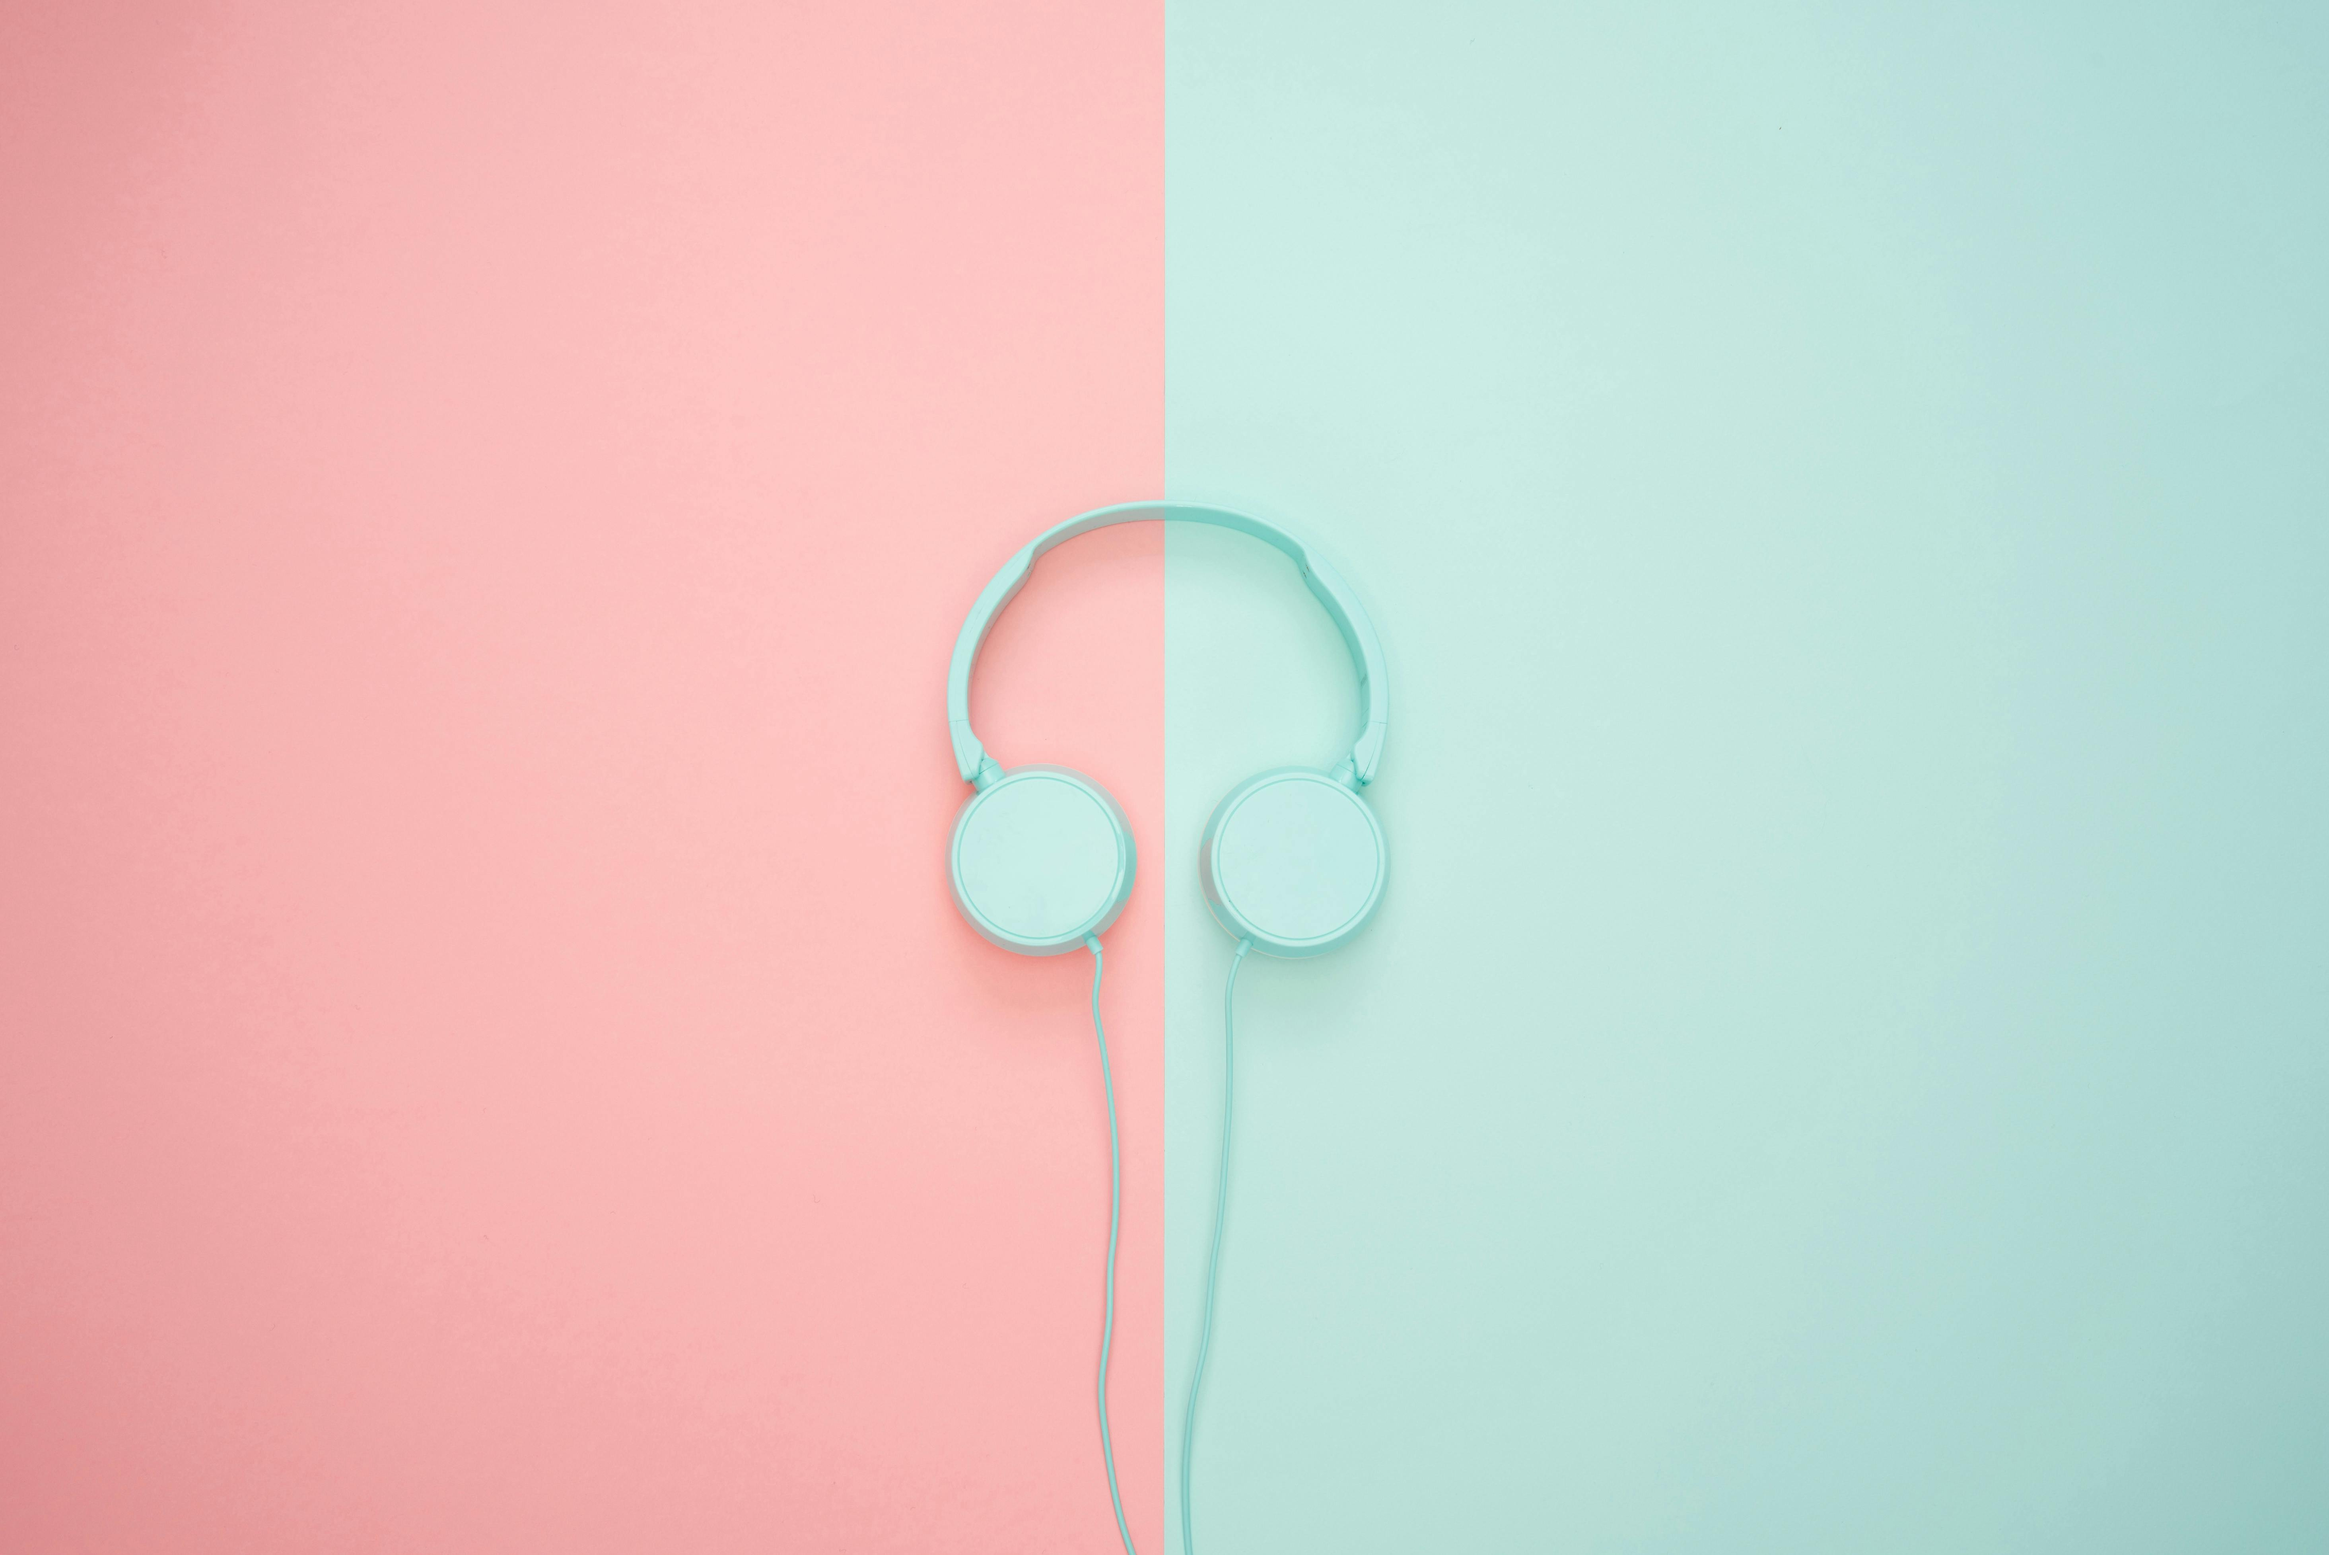
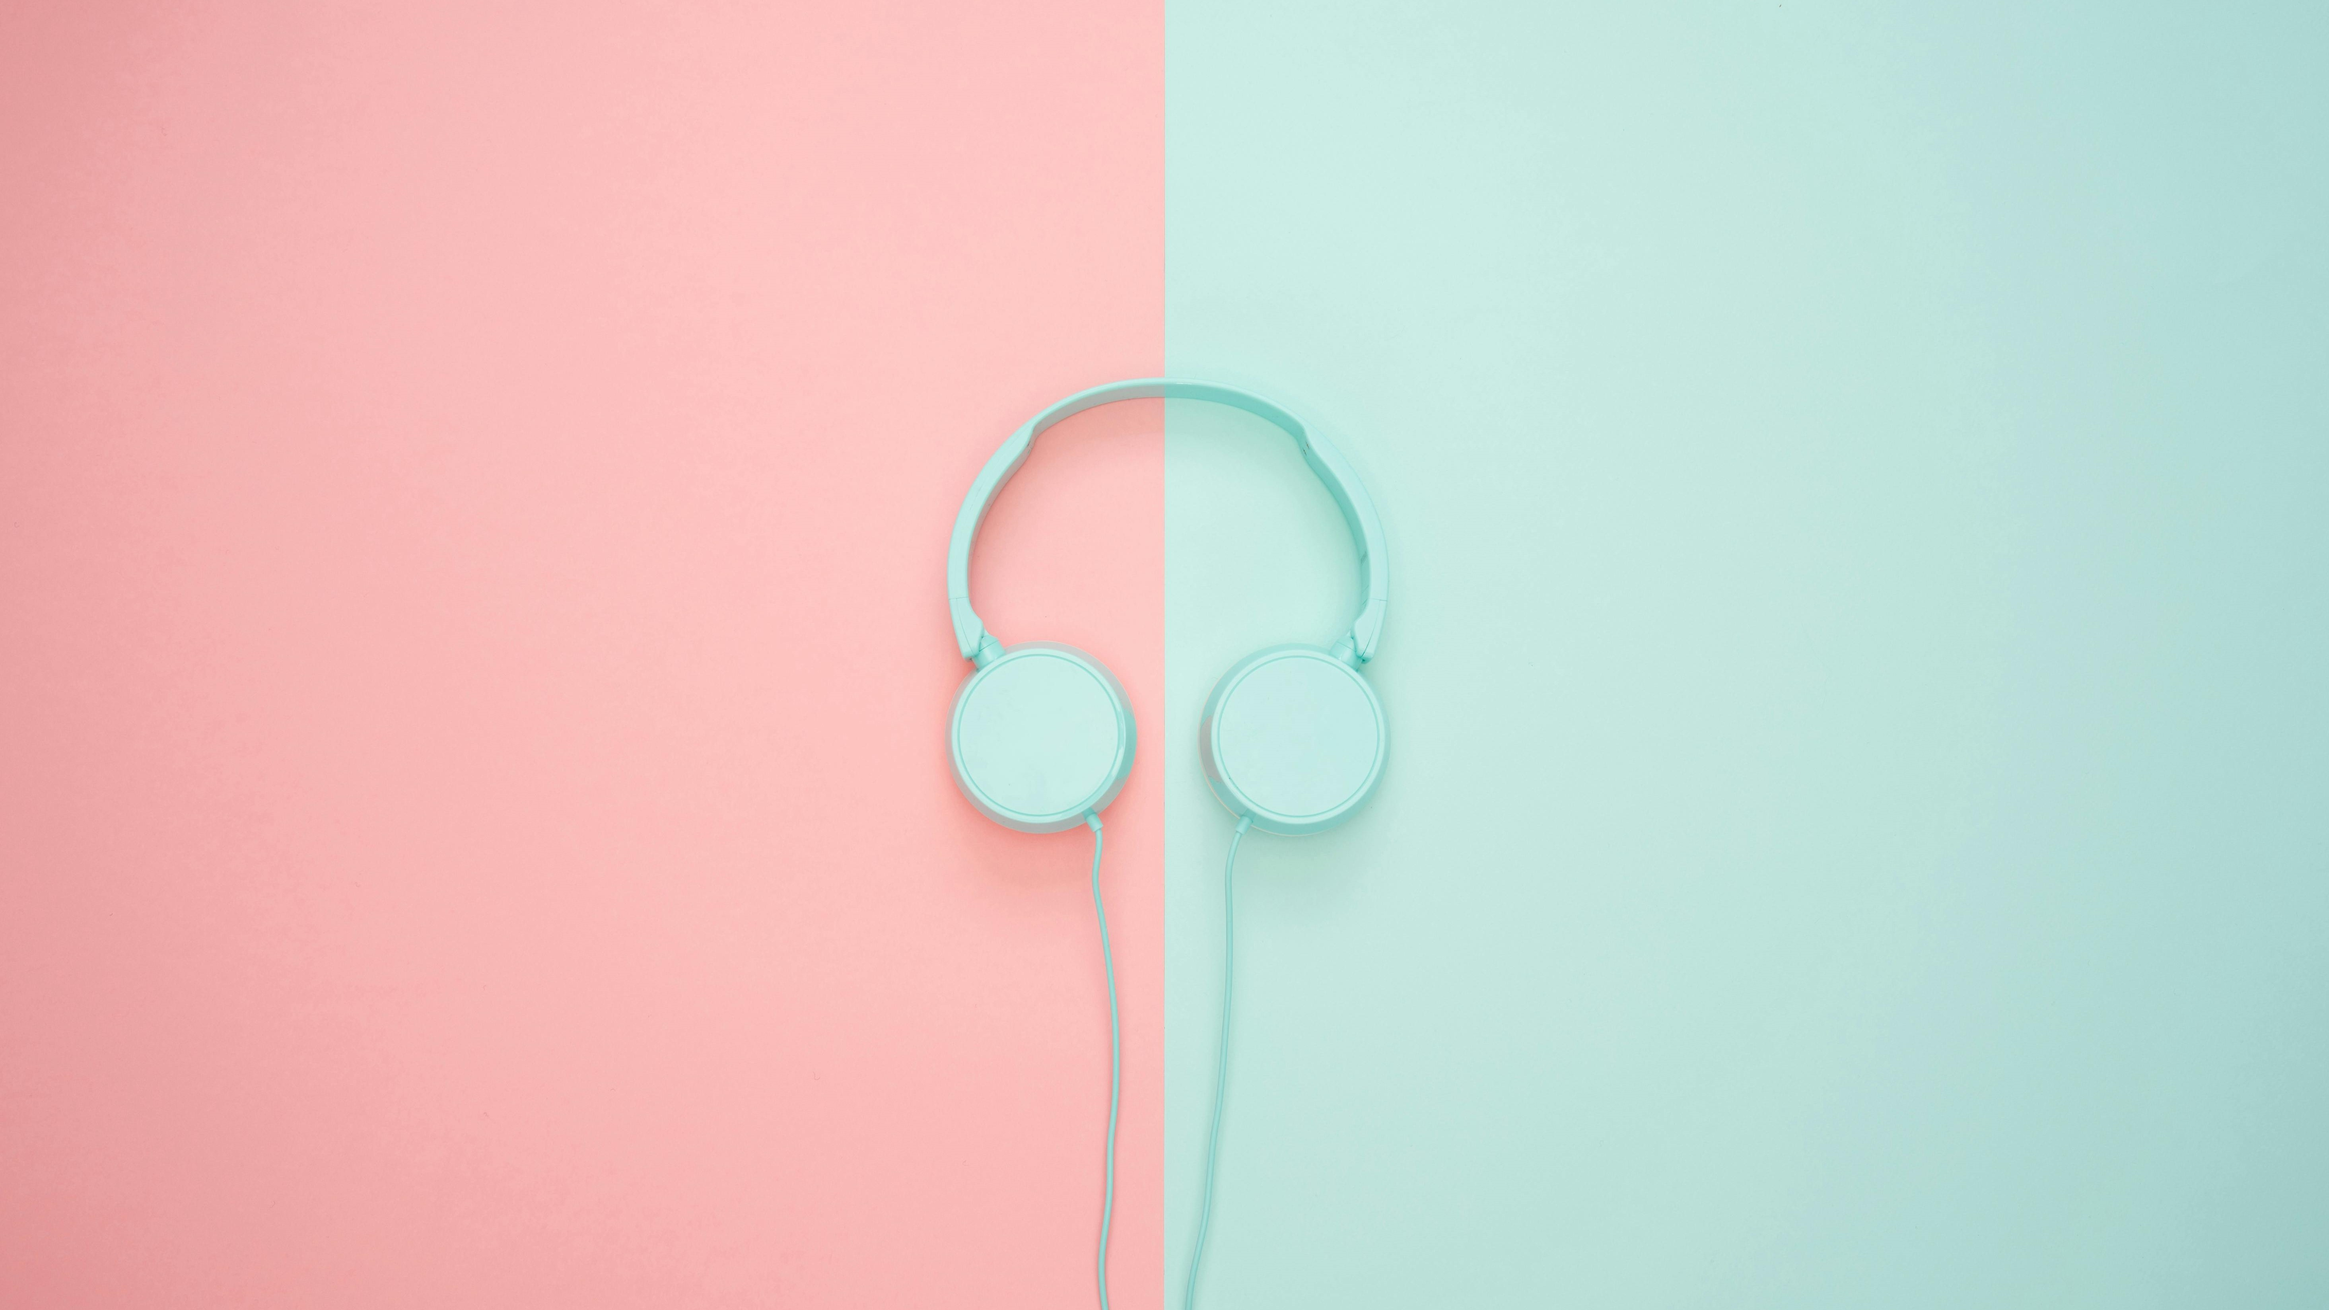
css

diff --git a/client/src/signUp.css b/client/src/signUp.css
@@ -1,0 +1,80 @@
+html, body {
+    margin: 0;
+    padding: 0;
+    width: 100%;
+    height: 100%;
+    font-family: Arial, sans-serif;
+  }
+  
+  #background {
+    background-image: url('./Images/background.jpg'); 
+    background-size: cover;
+    background-position: center;
+    background-repeat: no-repeat;
+    width: 100%;
+    height: 100%;
+    display: flex;
+    justify-content: center;
+    align-items: center;
+  }
+  
+  #form {
+    background: rgba(255, 255, 255, 0.8); 
+    padding: 20px;
+    border-radius: 10px;
+    box-shadow: 0 0 10px rgba(0, 0, 0, 0.5);
+    width: 300px;
+    text-align: center;
+    margin-top: 5.65vw;
+    margin-bottom: 5.65vw;
+    
+  }
+  
+  #form h1 {
+    margin-bottom: 20px;
+  }
+  
+  #form label {
+    display: block;
+    margin-bottom: 5px;
+    font-weight: bold;
+  }
+  
+  #form input {
+    width: calc(100% - 22px);
+    padding: 10px;
+    margin-bottom: 10px;
+    border: 1px solid #ccc;
+    border-radius: 5px;
+  }
+  
+  #form button {
+    width: 100%;
+    padding: 10px;
+    background-color: #007bff;
+    color: white;
+    border: none;
+    border-radius: 5px;
+    cursor: pointer;
+  }
+  
+  #form button:hover {
+    background-color: #0056b3;
+  }
+  
+  #login {
+    margin-top: 10px;
+  }
+  
+  #login p {
+    margin: 0;
+  }
+  
+  #login a {
+    color: #007bff;
+    text-decoration: none;
+  }
+  
+  #login a:hover {
+    text-decoration: underline;
+  }

diff --git a/client/src/signUp.jsx b/client/src/signUp.jsx
@@ -1,6 +1,7 @@
 import React from 'react'
 import axios from 'axios'
 import {useNavigate} from 'react-router-dom'
+import './signUp.css';
 
 function SignUp() {
     const [Fname, setFname] = React.useState('');
@@ -18,7 +19,7 @@ function SignUp() {
         .catch(err => {console.log(err);});
     }
     return (
-        <div>
+        <div id ='background'>
             <div id='form'>
                 <h1>Sign Up</h1>
                 <form onSubmit={handleSubmit}>

diff --git a/client/src/App.jsx b/client/src/App.jsx
@@ -1,19 +1,22 @@
 import React from 'react'
 import SignUp from './signUp.jsx'
 import LogIn from './Login.jsx'
+import './App.css'
+
 import{BrowserRouter,Routes, Route} from 'react-router-dom'
 
 
 function App() {
 
   return (
+    <div id='back'>
     <BrowserRouter>
       <Routes>
           <Route path='' element={<SignUp />}></Route>
           <Route path='/login' element={<LogIn />}></Route>
       </Routes>
     </BrowserRouter>
-    
+    </div>
   )
 }
 

diff --git a/client/src/main.jsx b/client/src/main.jsx
@@ -3,9 +3,12 @@ import ReactDOM from 'react-dom/client'
 import App from './App.jsx'
 
 
+
 ReactDOM.createRoot(document.getElementById('root')).render(
+  
   <React.StrictMode>
     <App />
     
   </React.StrictMode>,
+ 
 )
